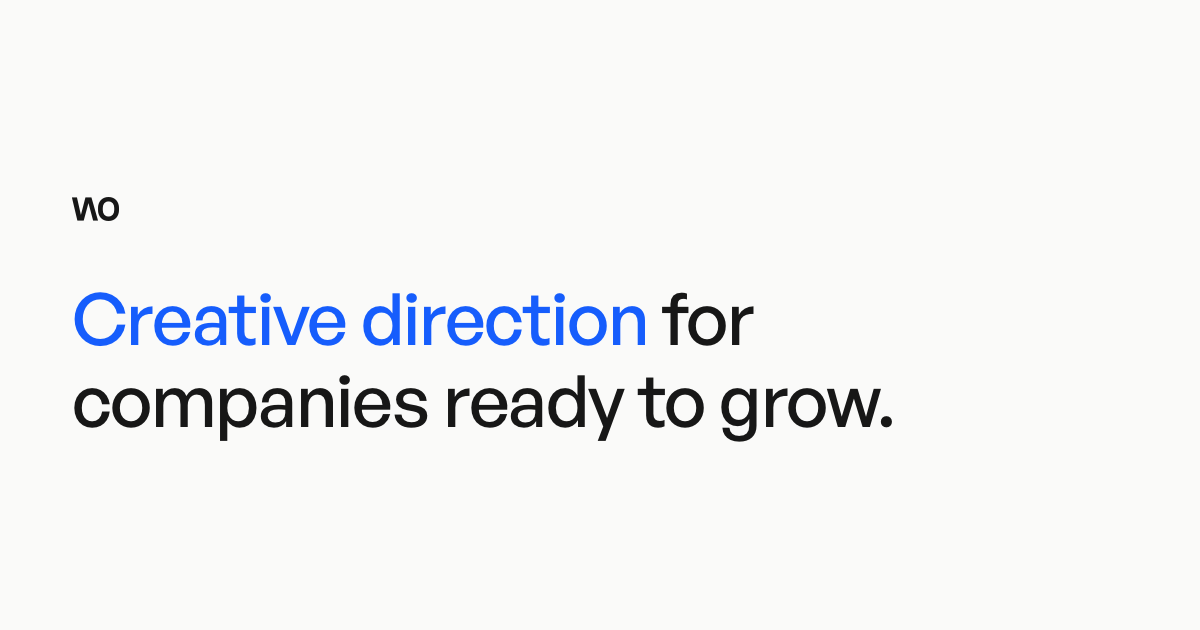
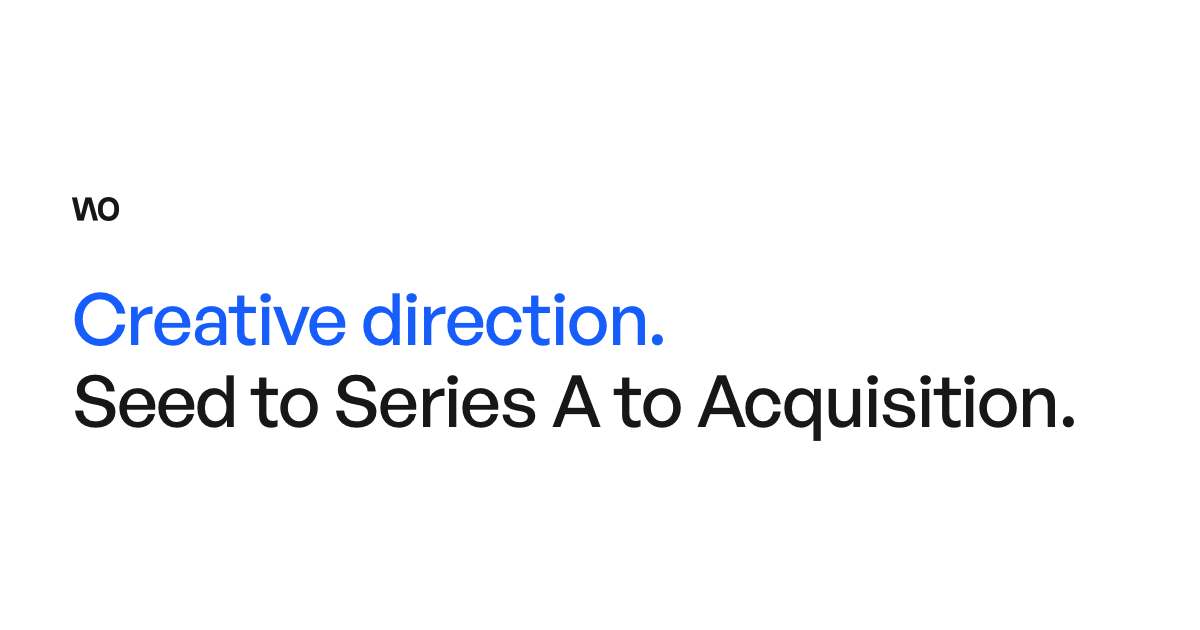
Updating copy and descriptions for articles. Tightening page copy.

Changed region(s): [[0.0617, 0.573, 0.8942, 0.6937], [0.5242, 0.4524, 0.6475, 0.573]]

diff --git a/src/components/Timeline.svelte b/src/components/Timeline.svelte
@@ -195,11 +195,11 @@
   h1 {
     font-feature-settings: "ss01" 1;
   }
-  ul {
+  /* ul {
     li {
       a {
         @apply underline;
       }
     }
-  }
+  } */
 </style>

diff --git a/src/content/projects/hidden-current.md b/src/content/projects/hidden-current.md
@@ -6,7 +6,7 @@ link: "hidden-current"
 externalLink: false
 download: "https://chromewebstore.google.com/detail/fdkekehihnaabecdlefgaaoddlenikgl?utm_source=item-share-cb"
 image: "hiddencurrent.webp"
-icon: "ph:head-circuit-duotone"
+icon: "ph:leaf-duotone"
 ---
 
 Every Claude response costs something. Electricity. Water. Real resources, consumed at scale, every time you hit send.

diff --git a/src/content/writing/look-out-for-those-that-are-doing.md b/src/content/writing/look-out-for-those-that-are-doing.md
@@ -1,7 +1,7 @@
 ---
 title: "Look for those that are doing the opposite."
 publishedAt: 2025-09-22
-description: "They are doing far more important things."
+description: "Beware those that are sat on the sidelines shouting improvements, and doing nothing else."
 icon: "ph-eye-closed-duotone"
 ---
 

diff --git a/src/content/writing/designs-not-dead-we-just-gave-in.md b/src/content/writing/designs-not-dead-we-just-gave-in.md
@@ -1,7 +1,7 @@
 ---
 title: "Design's not dead. We just gave in."
 publishedAt: 2025-07-22
-description: "What happens when creativity becomes compliance."
+description: "The frustrations of design, and what happens when creativity becomes compliance."
 icon: "ph:flag-banner-fold-duotone"
 ---
 

diff --git a/src/content/writing/its-time-to-kill-the-design-challenge.md b/src/content/writing/its-time-to-kill-the-design-challenge.md
@@ -1,7 +1,7 @@
 ---
 title: "It's time to kill the Design Challenge."
 publishedAt: 2025-08-04
-description: "Comedians don’t perform on command."
+description: "Why a design challenge isn't a reflection of a designers skill, and what to do instead."
 icon: "ph:knife-duotone"
 ---
 

diff --git a/src/content/writing/prepare-to-put-in-the-work.md b/src/content/writing/prepare-to-put-in-the-work.md
@@ -1,7 +1,7 @@
 ---
 title: "It's an art form, so put in the work."
 publishedAt: 2025-11-02
-description: "What it takes to become a better designer."
+description: "How creativity isn't built through staring at a screen, and pushing pixels."
 icon: "ph:path-duotone"
 ---
 
